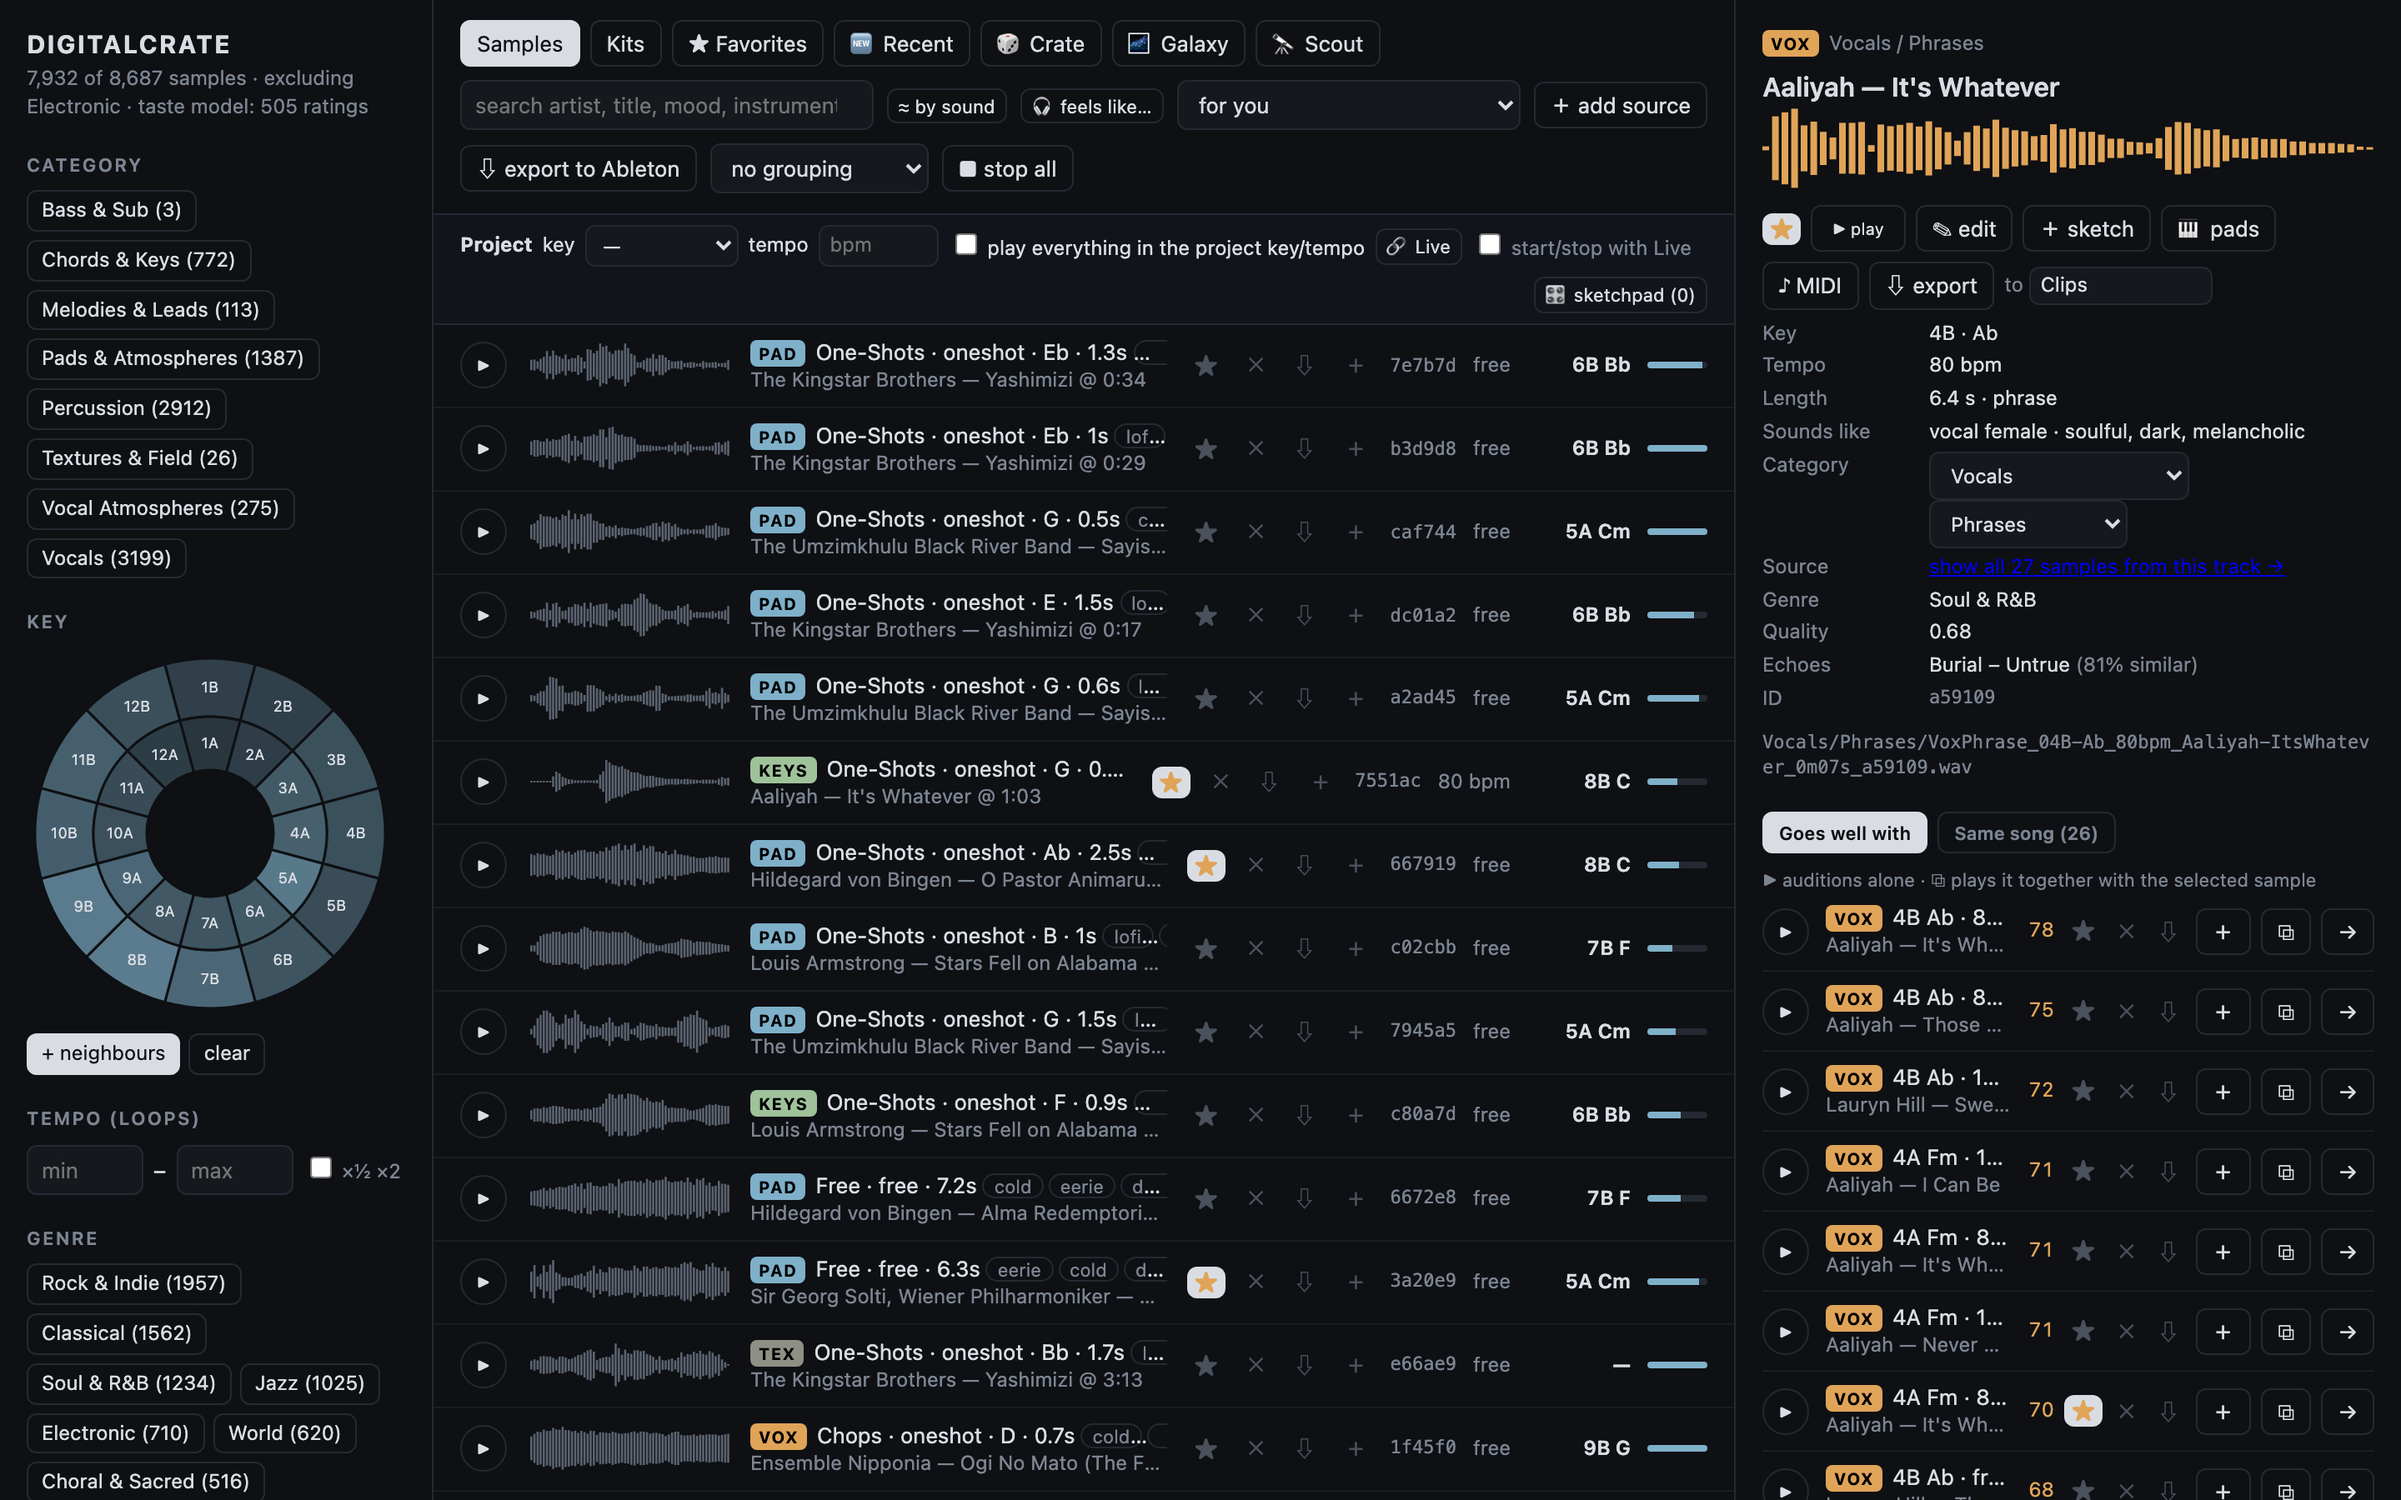
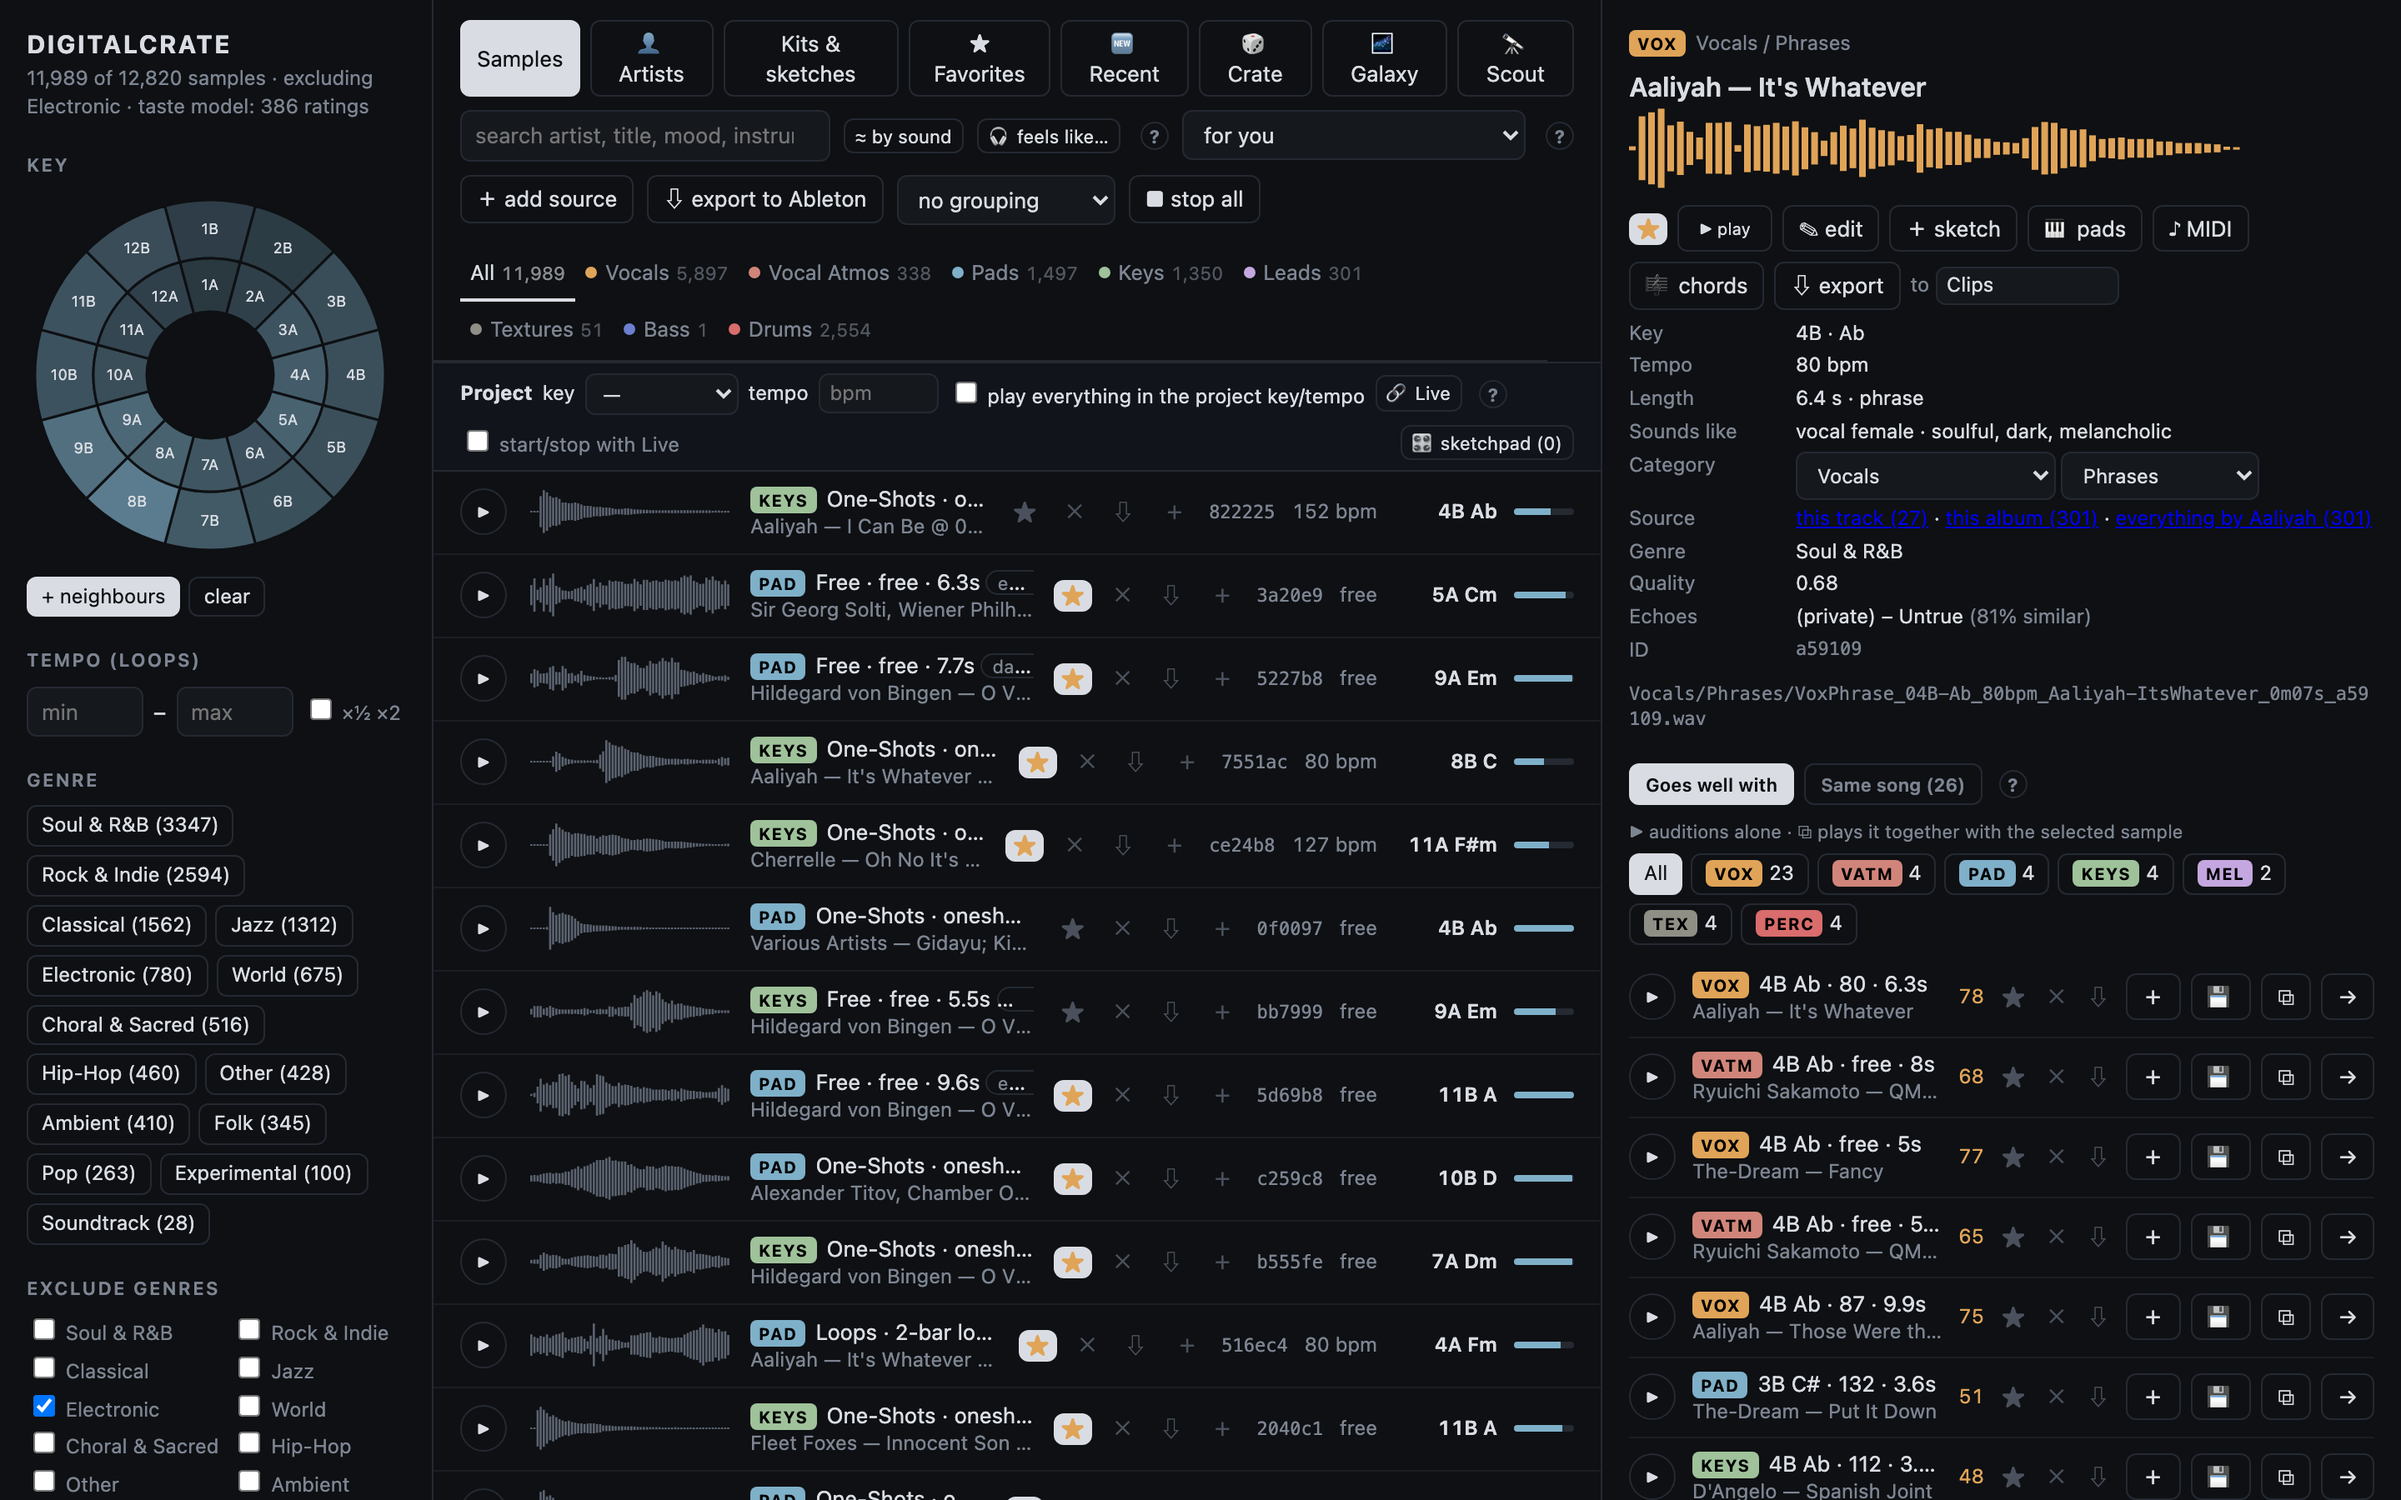
Screenshots and pad styling

diff --git a/digitalcrate/static/studio.css b/digitalcrate/static/studio.css
@@ -41,3 +41,4 @@
 .kk i.b{height:60%;background:#14171c;z-index:1;border-radius:0 0 2px 2px}.kk i.on{background:#e0a458}.kk i.b.on{background:#c98a3c}.kk i.bs{background:#7fb0c9}
 .kk em{position:absolute;bottom:2px;left:2px;font:9px ui-monospace,Menlo,monospace;color:#555;font-style:normal}
 .chlab{grid-column:2/-1;font-size:11px;color:var(--mute);margin-bottom:-4px;order:-1}
+.pad svg{width:100%;height:16px}.pad{height:68px}

diff --git a/tools/screenshots.py b/tools/screenshots.py
@@ -17,7 +17,8 @@ VOX, PAD, MEL = "a59109", "4484c1", "0947ae"  # walkthrough samples: three diffe
 sys.path.insert(0, str(Path(__file__).resolve().parent.parent))
 from digitalcrate import config as C  # noqa: E402
 import os  # noqa: E402
-PRIVATE = [n for n in [*C._cfg.get("reference_artists", []), *C._cfg.get("reference_exact", []),
+from digitalcrate.policy import REFERENCE_ARTISTS  # noqa: E402  the built-in reference list too (Burial, Gas…)
+PRIVATE = [n for n in [*REFERENCE_ARTISTS, *C._cfg.get("reference_artists", []), *C._cfg.get("reference_exact", []),
                        *os.environ.get("DIGITALCRATE_SCRUB", "").split(",")] if n.strip()]
 
 
@@ -28,7 +29,7 @@ def sel(page, sid):
 
 def scrub(page):
     """Replace private names in every visible text node and input value before a screenshot."""
-    page.evaluate("""names=>{const re=new RegExp(names.map(n=>n.replace(/[.*+?^${}()|[\\]\\\\]/g,'\\\\$&')).join('|'),'gi');
+    page.evaluate("""names=>{const re=new RegExp('\\\\b('+names.map(n=>n.replace(/[.*+?^${}()|[\\]\\\\]/g,'\\\\$&')).join('|')+')\\\\b','gi');
       const w=document.createTreeWalker(document.body,NodeFilter.SHOW_TEXT);let n;
       while((n=w.nextNode()))if(re.test(n.nodeValue)){re.lastIndex=0;n.nodeValue=n.nodeValue.replace(re,'(private)')}
       document.querySelectorAll('input,option').forEach(e=>{if(e.value&&re.test(e.value))e.value=e.value.replace(re,'(private)')})}""",
